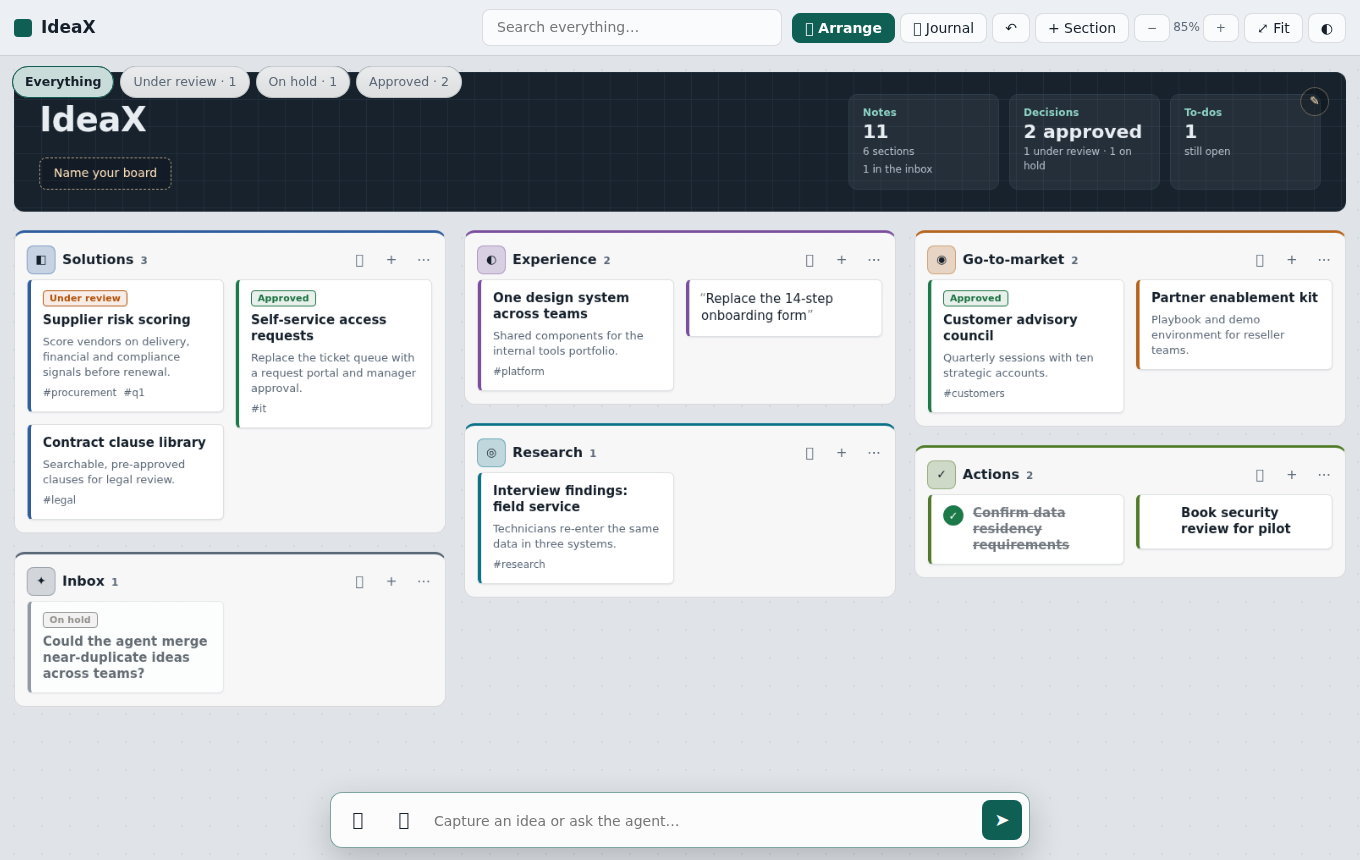
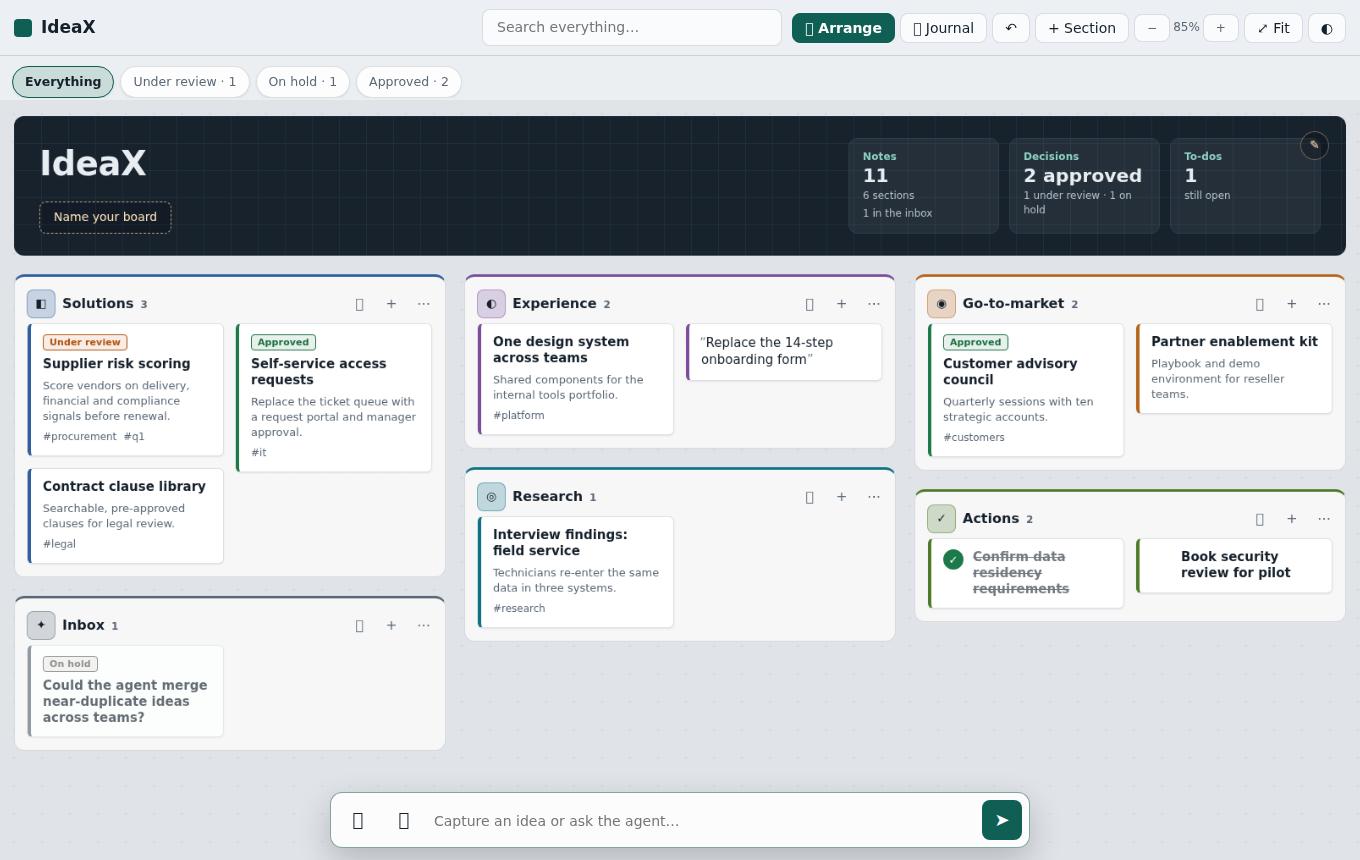
Give the stage filters their own band so they no longer cover the header

Changed region(s): [[0.0, 0.0605, 1.0, 0.8767]]

diff --git a/public/app.js b/public/app.js
@@ -299,7 +299,7 @@ function renderFilters() {
   const n = (k) => S.board.cards.filter((c) => c.stage === k).length;
   const any = Object.keys(STAGES).some(n);
   const btn = (key, label) => h('button', { class: `fpill${S.filter === key ? ' on' : ''}${key ? ` s-${key}` : ''}`, onclick: () => { S.filter = S.filter === key ? null : key; renderFilters(); applySearch(); } }, label);
-  $('#filters').hidden = !any;
+  $('#filters').hidden = !any; document.body.classList.toggle('has-filters', any);
   $('#filters').replaceChildren(btn(null, 'Everything'), ...Object.entries(STAGES).map(([k, v]) => btn(k, `${v} · ${n(k)}`)));
 }
 $('#search').addEventListener('input', (e) => { S.q = e.target.value; applySearch(); });

diff --git a/public/style.css b/public/style.css
@@ -407,3 +407,5 @@ body { background: var(--bg); font-size: 14px; font-feature-settings: "tnum" 1, 
 .hkicker { display: none; }
 .tval { font-size: 22px; }
 .cbtn.primary { border-radius: 8px; }
+/* the stage filters get their own band instead of floating over the board */
+body.has-filters #vp { top: calc(var(--top) + 44px + env(safe-area-inset-top)); }
